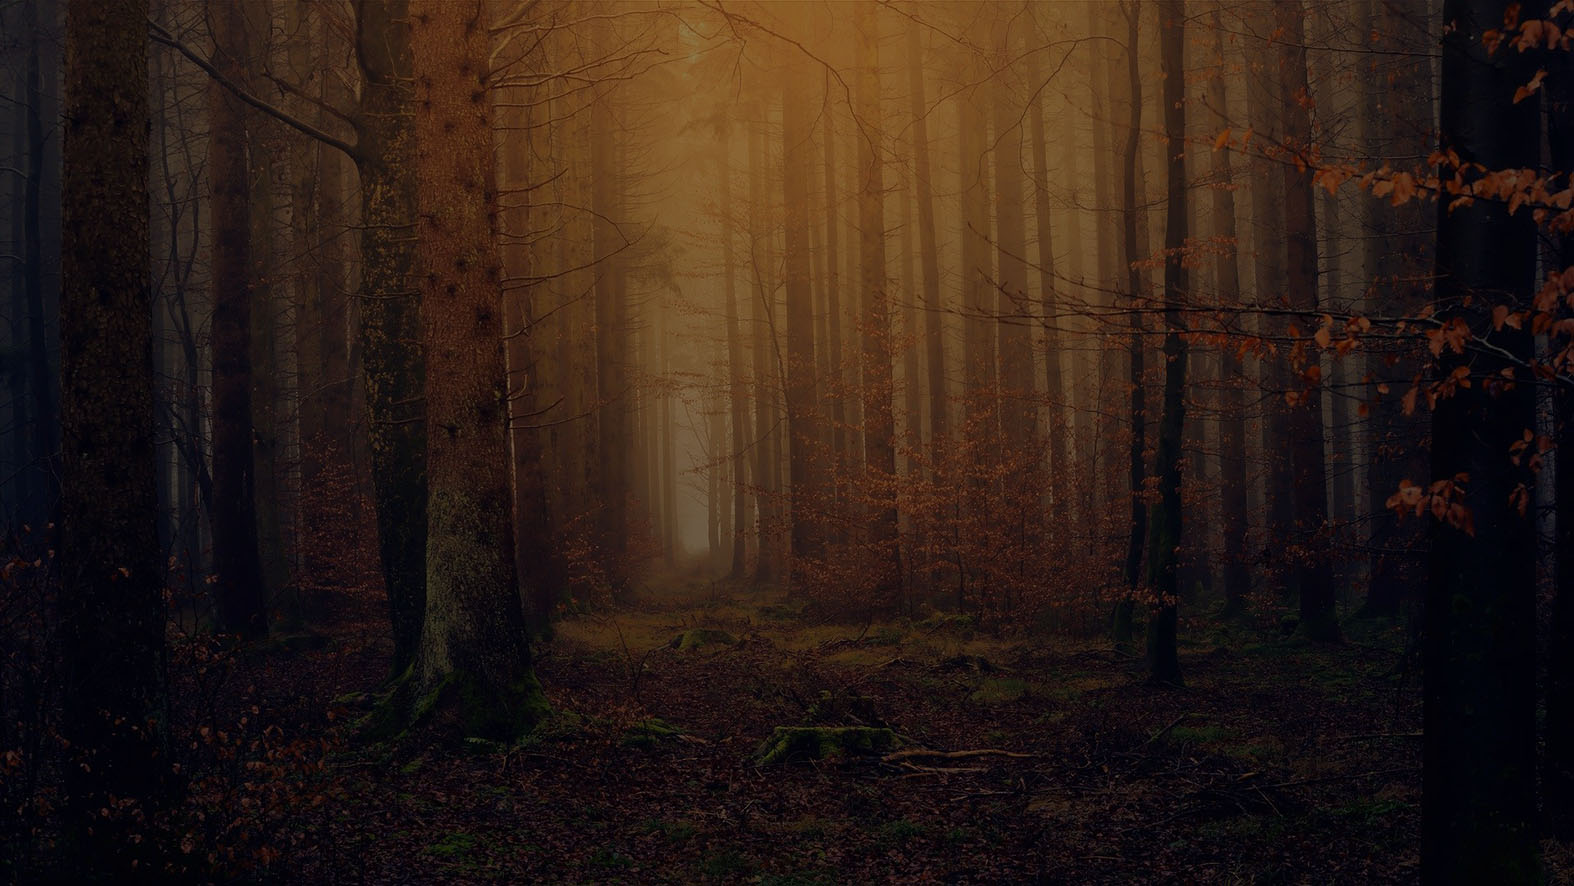
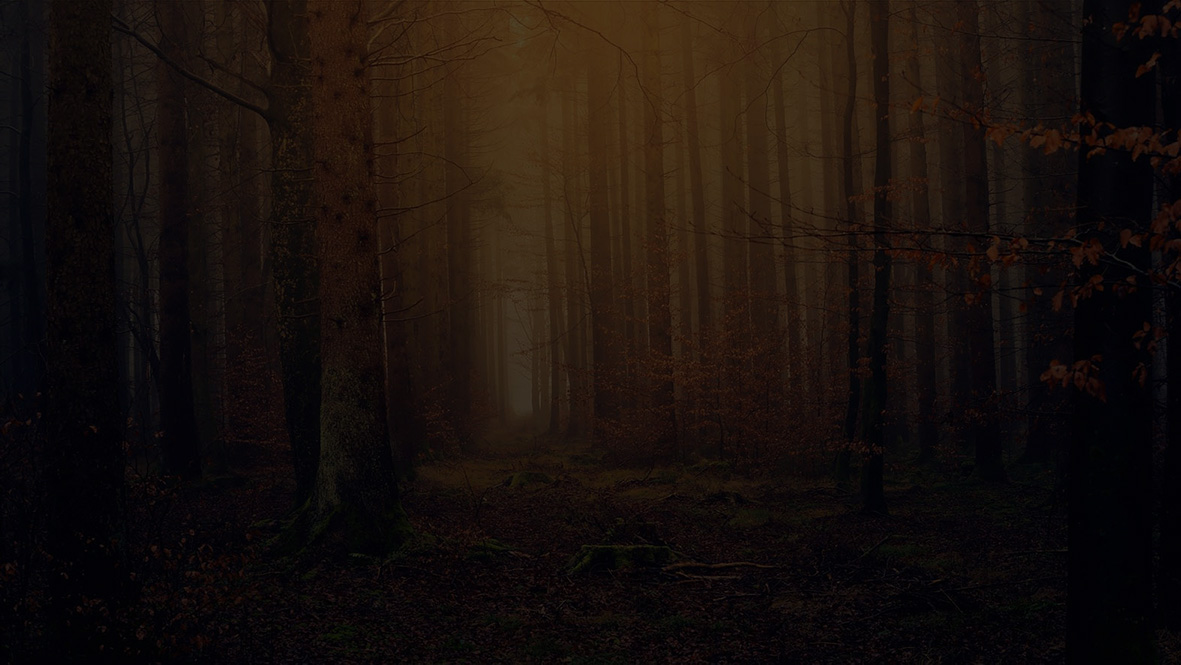
Finished get involved page. Darkened some images. Started work on visit page

diff --git a/html/visit.html b/html/visit.html
@@ -5,7 +5,7 @@
         <meta name="viewport" content="width=device-width, initial-scale=1.0">
         <meta name="description" content="Explore our science museum for a younger demographic, and discover important inventions and technologies throughout history">
         <link href="../css/styles.css" rel="stylesheet">
-        <link href="../css/index.css" rel="stylesheet">
+        <link href="../css/visit.css" rel="stylesheet">
         <link href="../css/media.css" rel="stylesheet">
         <link rel="stylesheet" href="https://use.typekit.net/dzq8emo.css">
         <title>Community Science Museum | Home</title>
@@ -26,6 +26,21 @@
             </nav>
         </header>
         <main>
+            <img src="../assets/exhibition.jpg" class="banner" alt="exhibition room with interesting items">
+            <section class="visit">
+                <h1 id="location">location</h1>
+                <p class="visit-text">The museum is located at Museum Road 24, 8888 Trondheim</p>
+                <h1>Admission</h1>
+                <p class="visit-text">The entrance is free for all.</p>
+                <p class="visit-text">There are guided tours of the museum that leave every hour. 
+                    These tours are 70 NOK per person and include a handy printed 
+                    guide of the museum.</p>
+                <p class="visit-text">If you would like to organise a guided tour for your group of 6 or 
+                    more people, please contact us to arrange the tour. </p>
+
+                <h1>Hours</h1>
+                <p></p>
+            </section>
         </main>
         <footer>
             <div class="footer-container"> 
@@ -45,9 +60,9 @@
                     <p id="address">Museum Road 24,</p>
                     <p id="postcode-city">8888 Trondheim</p>
                     <div class="footer-links">
-                        <a href="html/get-involved.html">Support</a>
-                        <a href="html/get-involved.html">Volunteer</a>
-                        <a href="html/get-involved.html">Internship</a>
+                        <a href="get-involved.html#support-h1">Support</a>
+                        <a href="get-involved.html#volunteer-h1">Volunteer</a>
+                        <a href="get-involved.html#internship-h1">Internship</a>
                     </div>    
                 </div>
                 <div class="footer-nav">

diff --git a/html/get-involved.html b/html/get-involved.html
@@ -28,7 +28,7 @@
         <main>
             <img src="../assets/mavis.jpg" class="banner" alt="Exhibition hall">
             <section class="support">
-                <h1>Support</h1>
+                <h1 id="support-h1">Support</h1>
                 <div class="support-content">
                     <div class="text support-text">
                         <p>
@@ -53,7 +53,7 @@
                 </div>
             </section>
             <section class="volunteer">
-                <h1>Volunteer</h1>
+                <h1 id="volunteer-h1">Volunteer</h1>
                 <div class="volunteer-content">
                     <div class="volunteer-image-container">
                         <img src="../images/library.jpg" class="images volunteer__image" alt="Inside the library">
@@ -75,7 +75,7 @@
                 </div>
             </section>
             <section class="internship">
-                <h1>Internships</h1>
+                <h1 id="internship-h1">Internships</h1>
                 <div class="internship-content">
                     <div class="internship-image-container">
                         <img src="../images/william-bout.jpg" class="images internship__image" alt="Science creation">
@@ -115,9 +115,9 @@
                     <p id="address">Museum Road 24,</p>
                     <p id="postcode-city">8888 Trondheim</p>
                     <div class="footer-links">
-                        <a href="html/get-involved.html">Support</a>
-                        <a href="html/get-involved.html">Volunteer</a>
-                        <a href="html/get-involved.html">Internship</a>
+                        <a href="#support-h1">Support</a>
+                        <a href="#volunteer-h1">Volunteer</a>
+                        <a href="#internship-h1">Internship</a>
                     </div>    
                 </div>
                 <div class="footer-nav">

diff --git a/css/media.css b/css/media.css
@@ -63,6 +63,10 @@
         flex: 0.9;
         margin-top: 40px;
     }
+
+    .visit-text {
+        margin: 22px auto
+    }
 }
 
 @media (min-width: 850px) {
@@ -183,15 +187,29 @@
         width: 450px;
     }
 
-    .energetica__image {
-        width: 550px;
+    .energetica__image,
+    .volunteer__image,
+    .internship__image {
+        width: 650px;
     }
 
     .professor h2,
     .night-museum h2,
-    .energetica h2 {
+    .energetica h2,
+    .visit h1 {
         font-size: 2em;
         margin-top: 50px;
+    }
+
+    .visit h1 {
+        padding-top: 20px;
+    }
+
+
+    .energetica-text,
+    .volunteer-text,
+    .internship-text {
+        max-width: 600px;
     }
 
 
@@ -353,7 +371,9 @@
 
     .page-headers h1,
     .support h1,
-    .for-teachers h1 {
+    .for-teachers h1,
+    .volunteer h1,
+    .internship h1 {
         font-size: 2.2em;
     }
 

diff --git a/index.html b/index.html
@@ -111,9 +111,9 @@
                     <p id="address">Museum Road 24,</p>
                     <p id="postcode-city">8888 Trondheim</p>
                     <div class="footer-links">
-                        <a href="html/get-involved.html">Support</a>
-                        <a href="html/get-involved.html">Volunteer</a>
-                        <a href="html/get-involved.html">Internship</a>
+                        <a href="html/get-involved.html#support-h1">Support</a>
+                        <a href="html/get-involved.html#volunteer-h1">Volunteer</a>
+                        <a href="html/get-involved.html#internship-h1">Internship</a>
                     </div>    
                 </div>
                 <div class="footer-nav">

diff --git a/html/exhibition-spaces.html b/html/exhibition-spaces.html
@@ -205,9 +205,9 @@
                     <p id="address">Museum Road 24,</p>
                     <p id="postcode-city">8888 Trondheim</p>
                     <div class="footer-links">
-                        <a href="html/get-involved.html">Support</a>
-                        <a href="html/get-involved.html">Volunteer</a>
-                        <a href="html/get-involved.html">Internship</a>
+                        <a href="get-involved.html#support-h1">Support</a>
+                        <a href="get-involved.html#volunteer-h1">Volunteer</a>
+                        <a href="get-involved.html#internship-h1">Internship</a>
                     </div>    
                 </div>
                 <div class="footer-nav">

diff --git a/html/explore.html b/html/explore.html
@@ -141,9 +141,9 @@
                     <p id="address">Museum Road 24,</p>
                     <p id="postcode-city">8888 Trondheim</p>
                     <div class="footer-links">
-                        <a href="html/get-involved.html">Support</a>
-                        <a href="html/get-involved.html">Volunteer</a>
-                        <a href="html/get-involved.html">Internship</a>
+                        <a href="get-involved.html#support-h1">Support</a>
+                        <a href="get-involved.html#volunteer-h1">Volunteer</a>
+                        <a href="get-involved.html#internship-h1">Internship</a>
                     </div>    
                 </div>
                 <div class="footer-nav">

diff --git a/html/special-events.html b/html/special-events.html
@@ -92,9 +92,9 @@
                     <p id="address">Museum Road 24,</p>
                     <p id="postcode-city">8888 Trondheim</p>
                     <div class="footer-links">
-                        <a href="html/get-involved.html">Support</a>
-                        <a href="html/get-involved.html">Volunteer</a>
-                        <a href="html/get-involved.html">Internship</a>
+                        <a href="get-involved.html#support-h1">Support</a>
+                        <a href="get-involved.html#volunteer-h1">Volunteer</a>
+                        <a href="get-involved.html#internship-h1">Internship</a>
                     </div>    
                 </div>
                 <div class="footer-nav">

diff --git a/css/visit.css b/css/visit.css
@@ -1,0 +1,20 @@
+.visit {
+    max-width: 1200px;
+    margin: auto;
+}
+
+h1 {
+    text-align: center;
+    font-size: 1.6em;
+    margin-top: 40px;
+}
+
+#location {
+    margin-top: 30px;
+}
+
+p {
+    max-width: 600px;
+    margin: 20px 6%;
+}
+
